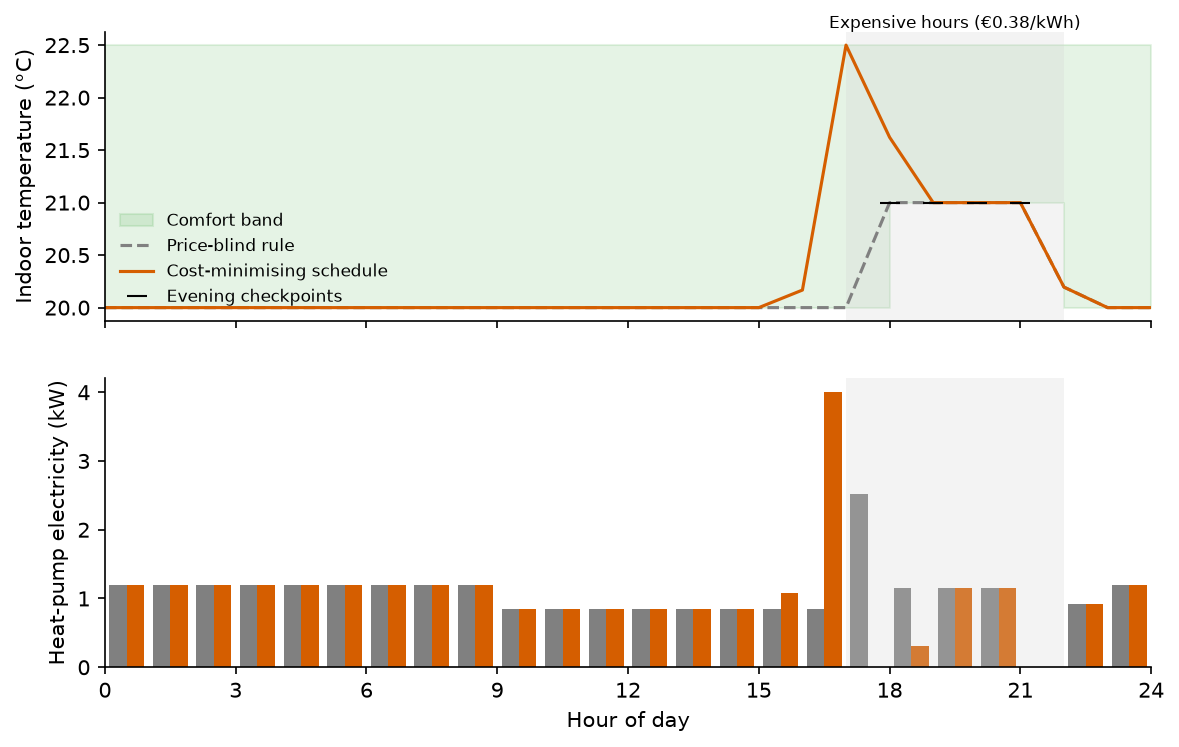
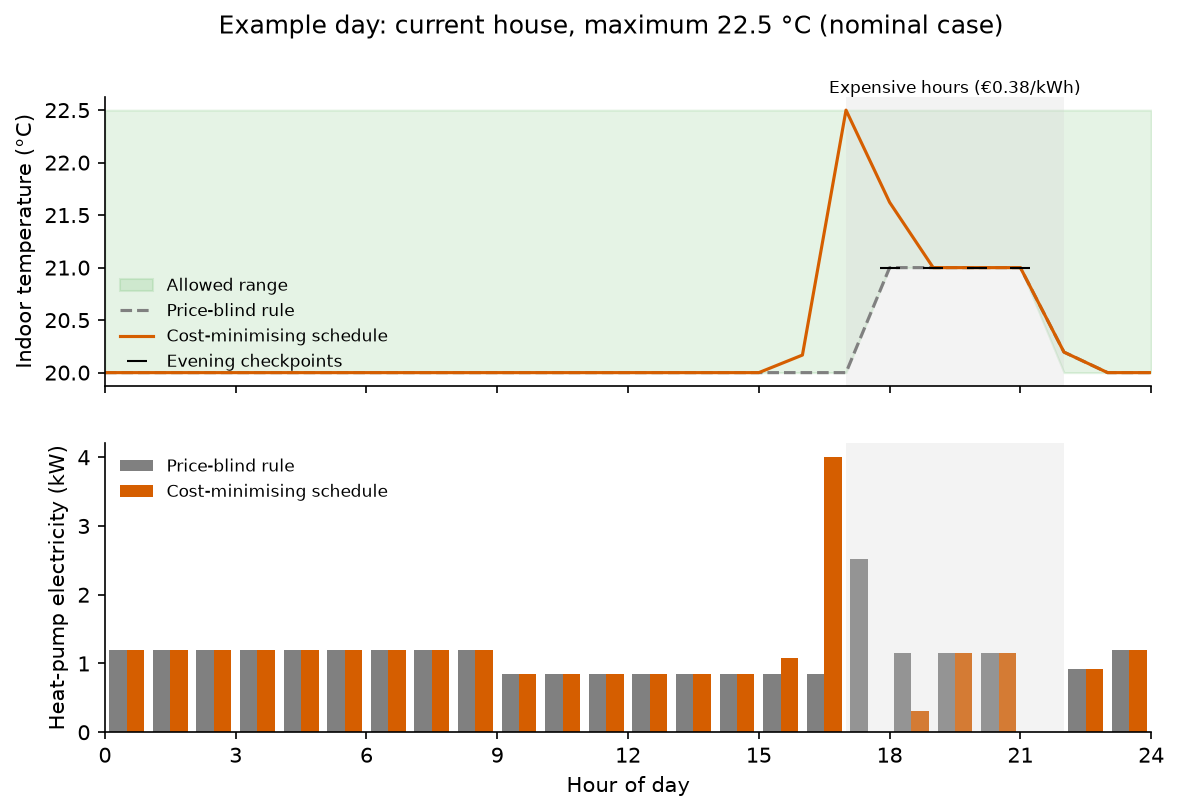
Fix example-day comfort band, label figures, correct README findings wording

diff --git a/preheat/plot.py b/preheat/plot.py
@@ -28,13 +28,18 @@ def flex_curve(res, path):
             bands = [b for b in res["bands"] if b["envelope"] == env]
             lo = [b[key + "_min"] for b in bands]
             hi = [b[key + "_max"] for b in bands]
-            ax.fill_between(CEILINGS, lo, hi, color=COL[env], alpha=0.18, lw=0)
+            ax.fill_between(CEILINGS, lo, hi, color=COL[env], alpha=0.12, lw=0)
+            ax.plot(CEILINGS, lo, ":", color=COL[env], lw=0.9)
+            ax.plot(CEILINGS, hi, ":", color=COL[env], lw=0.9)
             ax.plot(CEILINGS, nom, "-o", color=COL[env], ms=4)
             up = nom[-1] >= max(_pick(res, o, CEILINGS[-1])[key] for o in COL)
             ax.annotate(LAB[env], (CEILINGS[-1], nom[-1]), xytext=(-6, 9 if up else -13),
                         textcoords="offset points", color=COL[env], ha="right",
                         fontsize=9)
-        ax.axvline(REFERENCE_CEILING, color="grey", ls=":", lw=1)
+        ax.axvline(REFERENCE_CEILING, color="grey", ls="--", lw=0.8)
+        ax.text(REFERENCE_CEILING, 0.01, f" example in text ({REFERENCE_CEILING} °C)",
+                transform=ax.get_xaxis_transform(), color="grey", fontsize=8,
+                ha="left", va="bottom")
         ax.set_xticks(CEILINGS)
         ax.set_xlim(21.4, 24.1)
         ax.set_ylim(*ylim)
@@ -51,8 +56,8 @@ def flex_curve(res, path):
              f"€{cur['baseline']['cost_eur']:.2f} a day; better insulated avoids "
              f"{ins['avoided_kwh']:.2f} kWh ({ins['avoided_pct']:.1f}%), saving "
              f"€{ins['saving_eur']:.2f} of €{ins['baseline']['cost_eur']:.2f}.")
-    line2 = ("One synthetic winter day. Lines: nominal case. Shading: range across 7 "
-             "one-at-a-time what-if cases (not probabilities).")
+    line2 = ("One synthetic winter day. Solid lines: nominal case. Shading between dotted "
+             "lines: range across 7 one-at-a-time what-if cases (not probabilities).")
     if n_ok < 7:
         line2 += f" Some bands cover fewer than 7 cases (minimum {n_ok})."
     fig.text(0.5, -0.02, line1 + "\n" + line2, ha="center", va="top", fontsize=9)
@@ -67,8 +72,8 @@ def example_day(res, path):
     h = np.arange(25)
     floor = np.array(ex["floor_c"])
     ceil = ex["ceiling_c"]
-    a1.fill_between(h, floor, ceil, step="post", color="#2ca02c", alpha=0.12,
-                    label="Comfort band")
+    # Bounds are checked at the hourly points only, so join them like the temperature lines.
+    a1.fill_between(h, floor, ceil, color="#2ca02c", alpha=0.12, label="Allowed range")
     a1.plot(h, ex["T_baseline_c"], "--", color="grey", label="Price-blind rule")
     a1.plot(h, ex["T_optimised_c"], "-", color=COL["current"], label="Cost-minimising schedule")
     a1.plot([18, 19, 20, 21], [21] * 4, "k_", ms=10, label="Evening checkpoints")
@@ -76,8 +81,10 @@ def example_day(res, path):
     a1.legend(fontsize=8, loc="lower left", frameon=False)
     w = 0.4
     t = np.arange(24)
-    a2.bar(t + 0.5 - w / 2, ex["p_baseline_kw"], w, color="grey")
-    a2.bar(t + 0.5 + w / 2, ex["p_optimised_kw"], w, color=COL["current"])
+    a2.bar(t + 0.5 - w / 2, ex["p_baseline_kw"], w, color="grey", label="Price-blind rule")
+    a2.bar(t + 0.5 + w / 2, ex["p_optimised_kw"], w, color=COL["current"],
+           label="Cost-minimising schedule")
+    a2.legend(fontsize=8, loc="upper left", frameon=False)
     a2.set_ylabel("Heat-pump electricity (kW)")
     a2.set_xlabel("Hour of day")
     a2.set_xticks(range(0, 25, 3))
@@ -88,5 +95,6 @@ def example_day(res, path):
             ax.spines[s].set_visible(False)
     a1.text(19.5, a1.get_ylim()[1], f"Expensive hours (€{PRICE_EVENING:.2f}/kWh)",
             ha="center", va="bottom", fontsize=8)
+    fig.suptitle(f"Example day: current house, maximum {ceil} °C (nominal case)")
     fig.savefig(path, **SAVE)
     plt.close(fig)

diff --git a/README.md b/README.md
@@ -16,7 +16,8 @@ Left: the share of evening heat-pump electricity avoided. Right: euros saved ove
 
 - At 22.5 °C on the nominal day, the current house avoids 3.38 kWh (56.3%) of its 6.00 kWh evening use and saves €0.54 on a day that otherwise costs €6.61 to heat.
 - At 22.5 °C the better-insulated house avoids 3.39 kWh (81.7%) of its 4.15 kWh evening use and saves €0.55 on a day that otherwise costs €4.17 to heat.
-- The two measures can rank the houses differently: at 22.5 °C the shares are 56.3% against 81.7% while the savings are €0.54 against €0.55, and at 23.5 °C the better-insulated house avoids 4.15 kWh (100.0%) and saves €0.66, while the current house avoids 4.63 kWh (77.2%) and saves €0.71.
+- At 22.5 °C both measures put the better-insulated house slightly ahead, but very unevenly: 81.7% against 56.3% of evening use, yet only €0.55 against €0.54 saved. The insulated house uses less in the evening to begin with, so the same kWh is a bigger share of it.
+- At 23.5 °C the two measures disagree. The better-insulated house avoids all of its evening use, 4.15 kWh (100.0%), and saves €0.66; it cannot avoid more, so its saving stops growing. The current house avoids 4.63 kWh (77.2%) and saves more, €0.71.
 - The savings are small: between €0.34 (21.5 °C) and €0.78 (24.0 °C) per synthetic day for the current house, in absolute euros.
 - The what-if range is wide. At 22.5 °C the current house avoids 44.1% (2.52 kWh, €0.40 saved) in the lighter-house case and 91.8% (6.80 kWh, €1.10 saved) in the heavier-house case, so how much heat the house can store matters a great deal.
 
@@ -26,11 +27,13 @@ All numbers come from `results.json`, which `python -m preheat` writes.
 
 ![Indoor temperature and heat-pump power through the day, with the expensive hours shaded](figures/example_day.png)
 
-The price-blind rule only starts heating when it has to, so it runs hard inside the expensive hours. The cost-minimising schedule heats before 17:00 to reach the top of the allowed band, then lets the house coast through the evening while staying at or above the evening comfort level.
+The price-blind rule only starts heating when it has to, so it runs hard inside the expensive hours. The cost-minimising schedule heats hard just before 17:00, up to the top of the allowed range, so the house drifts down through the evening and needs much less heating in the expensive hours (it still tops up at 18:00 to 21:00 to stay at 21 °C).
 
 ## How it works
 
-The house is one lump with heat capacity C and a heat-loss coefficient UA, updated hourly with the exact solution `T[t+1] = a·T[t] + (1−a)·(Tout[t] + (COP[t]·p[t] + gains[t])/UA)`, where `a = exp(−UA/C)`. A linear programme picks the cheapest hourly heat-pump power that keeps the temperature inside the band. The baseline heats each hour just enough to reach the next hour's minimum. Every schedule is re-checked by an independent simulation, and if a bound is broken no comparison is shown.
+In plain words: the house is treated as one big "heat battery" that leaks heat to the outside. The heat pump fills it; how much heat it delivers per unit of electricity (the COP, about 3 here) is lower when it is colder outside. The tool then finds the cheapest hour-by-hour heating plan that keeps the house inside the allowed temperatures.
+
+The house is one lump with heat capacity C and a heat-loss coefficient UA, updated hourly with the exact solution `T[t+1] = a·T[t] + (1−a)·(Tout[t] + (COP[t]·p[t] + gains[t])/UA)`, where `a = exp(−UA/C)`. C (kWh/K) is how much energy it takes to warm the house by one degree; UA (kW/K) is how fast heat leaks out per degree of difference to outside. A linear programme (a standard method for finding the cheapest plan under straight-line rules) picks the cheapest hourly heat-pump power that keeps the temperature inside the band. The baseline heats each hour just enough to reach the next hour's minimum. Every schedule is re-checked by an independent simulation, and if a bound is broken no comparison is shown.
 
 ## Assumptions (all synthetic)
 

diff --git a/docs/log.md b/docs/log.md
@@ -16,6 +16,7 @@ sources: []
 
 ## 2026-11-18
 
+- Review fixes: the example-day figure drew the evening floor as a step, so a valid schedule looked as if it broke the floor between 21:00 and 22:00; it now joins the hourly bound points. Added a legend to the power panel and a title. Main figure: dotted band edges and a labelled 22.5 °C line. README: corrected the claim that the two measures rank the houses differently at 22.5 °C (they only do at 23.5 °C and above), corrected "coast" (the schedule still tops up in the evening) and added plain-English explanations of C, UA, COP and the linear programme. `results.json` unchanged.
 - Initial version: fixture, exact 1R1C model, price-blind baseline, linear programme with forward check, 84-pair sweep, `results.json`, two figures (`preheat/`, `figures/`).
 - Regression check T8 matched the scratch-run values at 22.5 °C without changes to the fixture.
 - Added the optional language layer (`preheat/ask.py`), a hand-written offline trace (`preheat/traces/demo.json`) and the phrasings file for a later live check. No live check has been run.

diff --git a/docs/sweep.md b/docs/sweep.md
@@ -20,4 +20,4 @@ Six ceilings (21.5 to 24 °C in 0.5 °C steps) × two envelopes × seven cases =
 
 `compare(ceiling_c)` in `sweep.py` uses the same code path and is the single tool the language layer may call.
 
-Figures: `figures/flex_curve.png` (two panels, avoided share and euros saved per day, caption numbers read from the records) and `figures/example_day.png` (temperature, comfort band and hourly power for the current house at 22.5 °C).
+Figures: `figures/flex_curve.png` (two panels, avoided share and euros saved per day; band edges drawn as dotted lines so overlapping bands stay distinguishable; the 22.5 °C reference line is labelled; caption numbers read from the records) and `figures/example_day.png` (temperature, allowed range and hourly power for the current house at 22.5 °C, with a legend on both panels). The allowed range is drawn by joining the hourly bound points, the same way as the temperature lines, because bounds are only checked at those points; within an hour the exact trajectory is monotone, so an hourly check is enough.
